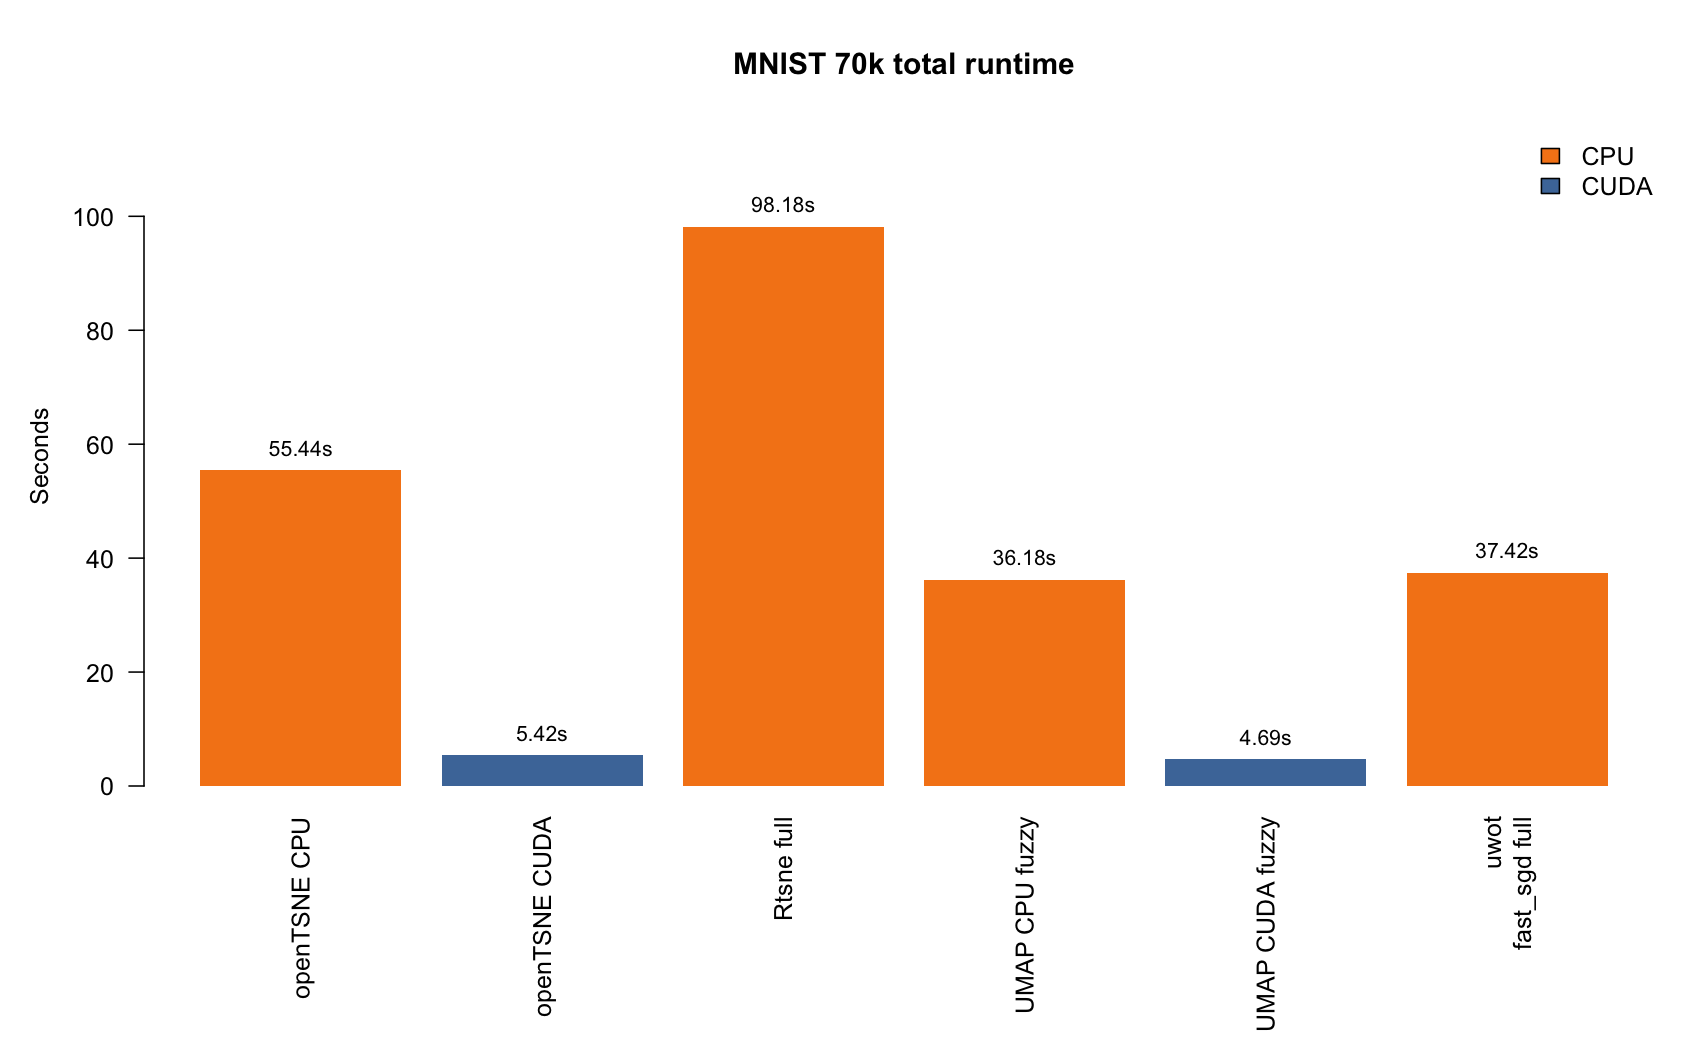
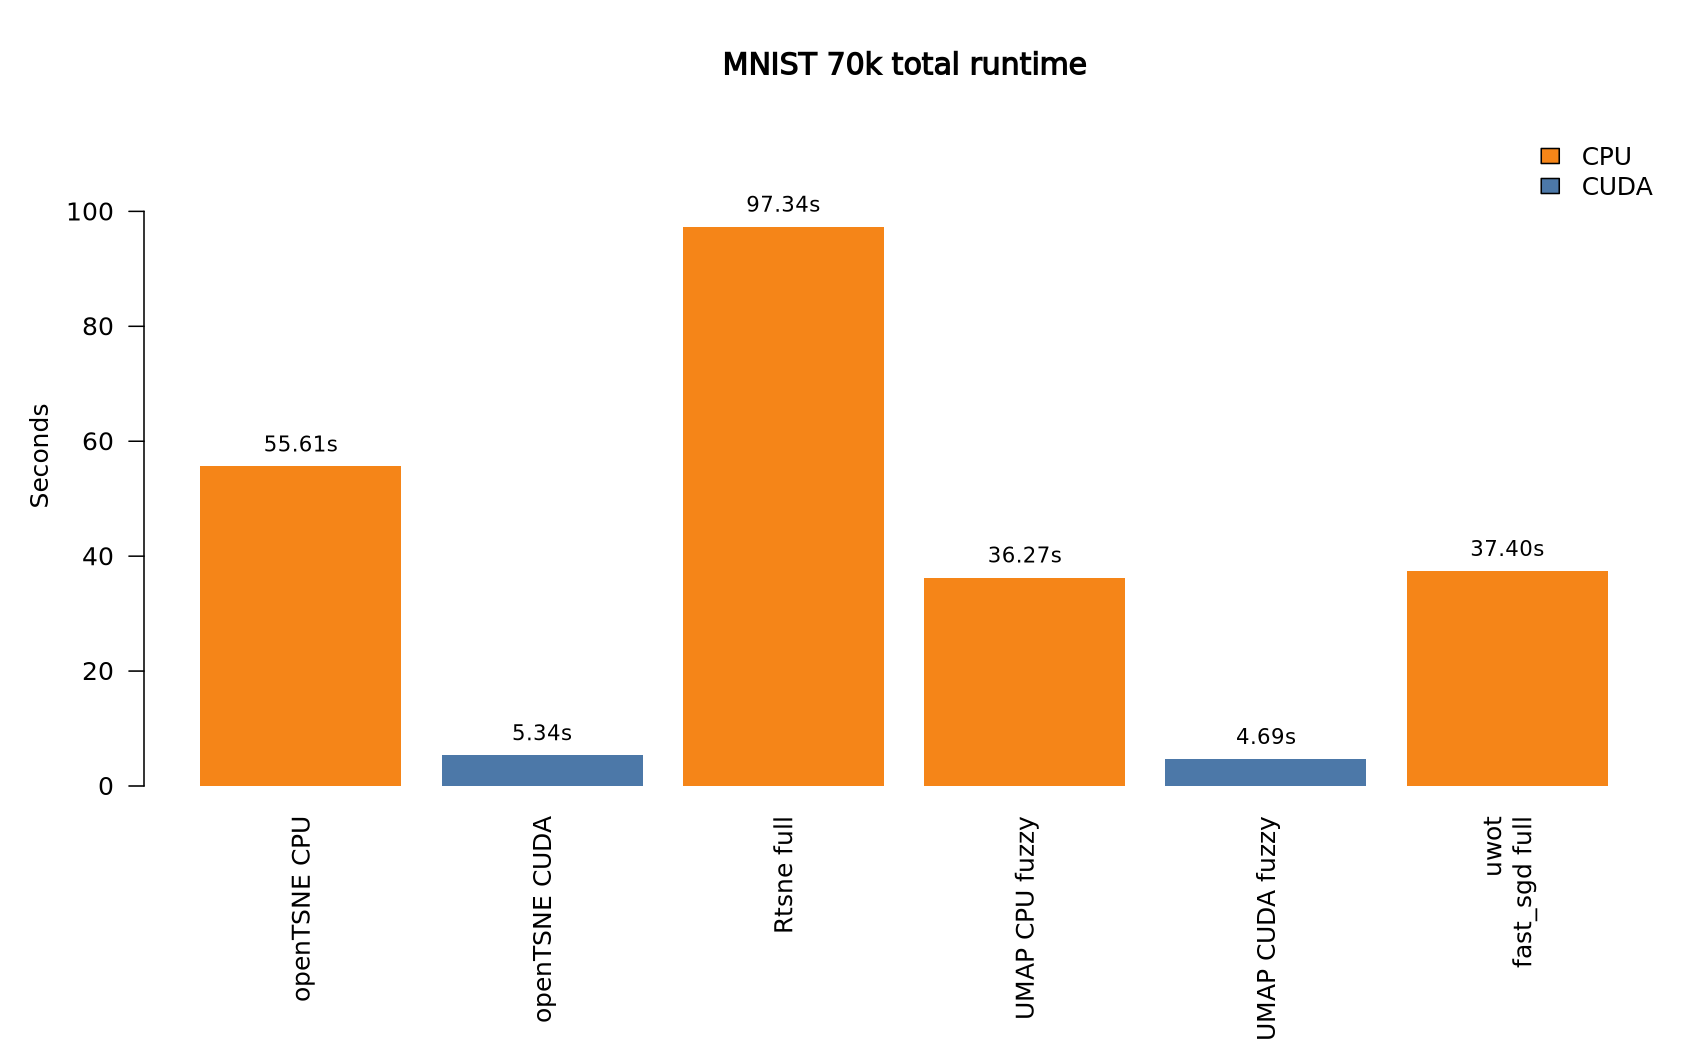
Align CPU UMAP fuzzy with CUDA schedule

diff --git a/docs/examples.md b/docs/examples.md
@@ -203,12 +203,12 @@ The benchmark intentionally does not show `graph_mode = "binary"`.
 
 | method | backend | total sec | trust | label KNN acc |
 | --- | --- | ---: | ---: | ---: |
-| fastEmbedR openTSNE CPU | CPU | 55.437 | 0.332 | 0.968 |
-| fastEmbedR openTSNE CUDA | CUDA | 5.415 | 0.335 | 0.969 |
-| Rtsne full | CPU | 98.179 | 0.324 | 0.973 |
-| fastEmbedR UMAP CPU fuzzy | CPU | 36.184 | 0.279 | 0.971 |
-| fastEmbedR UMAP CUDA fuzzy | CUDA | 4.693 | 0.276 | 0.972 |
-| uwot UMAP fast_sgd full | CPU | 37.417 | 0.277 | 0.970 |
+| fastEmbedR openTSNE CPU | CPU | 55.611 | 0.332 | 0.968 |
+| fastEmbedR openTSNE CUDA | CUDA | 5.341 | 0.333 | 0.969 |
+| Rtsne full | CPU | 97.337 | 0.324 | 0.973 |
+| fastEmbedR UMAP CPU fuzzy | CPU | 36.272 | 0.278 | 0.972 |
+| fastEmbedR UMAP CUDA fuzzy | CUDA | 4.687 | 0.276 | 0.971 |
+| uwot UMAP fast_sgd full | CPU | 37.397 | 0.276 | 0.970 |
 
 ![MNIST 70k embeddings](assets/mnist70k_cuda_codex_20260621_4threads/mnist70k_github_benchmark.png)
 

diff --git a/docs/assets/mnist70k_cuda_codex_20260621_4threads/machine-specs.md b/docs/assets/mnist70k_cuda_codex_20260621_4threads/machine-specs.md
@@ -1,6 +1,6 @@
 # Machine Specification
 
-- Run timestamp: 2026-06-21 11:13:40 UTC
+- Run timestamp: 2026-06-21 11:48:42 UTC
 - Machine: icgeb-bioinformatics-unit
 - System: Linux 6.8.0-124-generic
 - Platform: x86_64-conda-linux-gnu